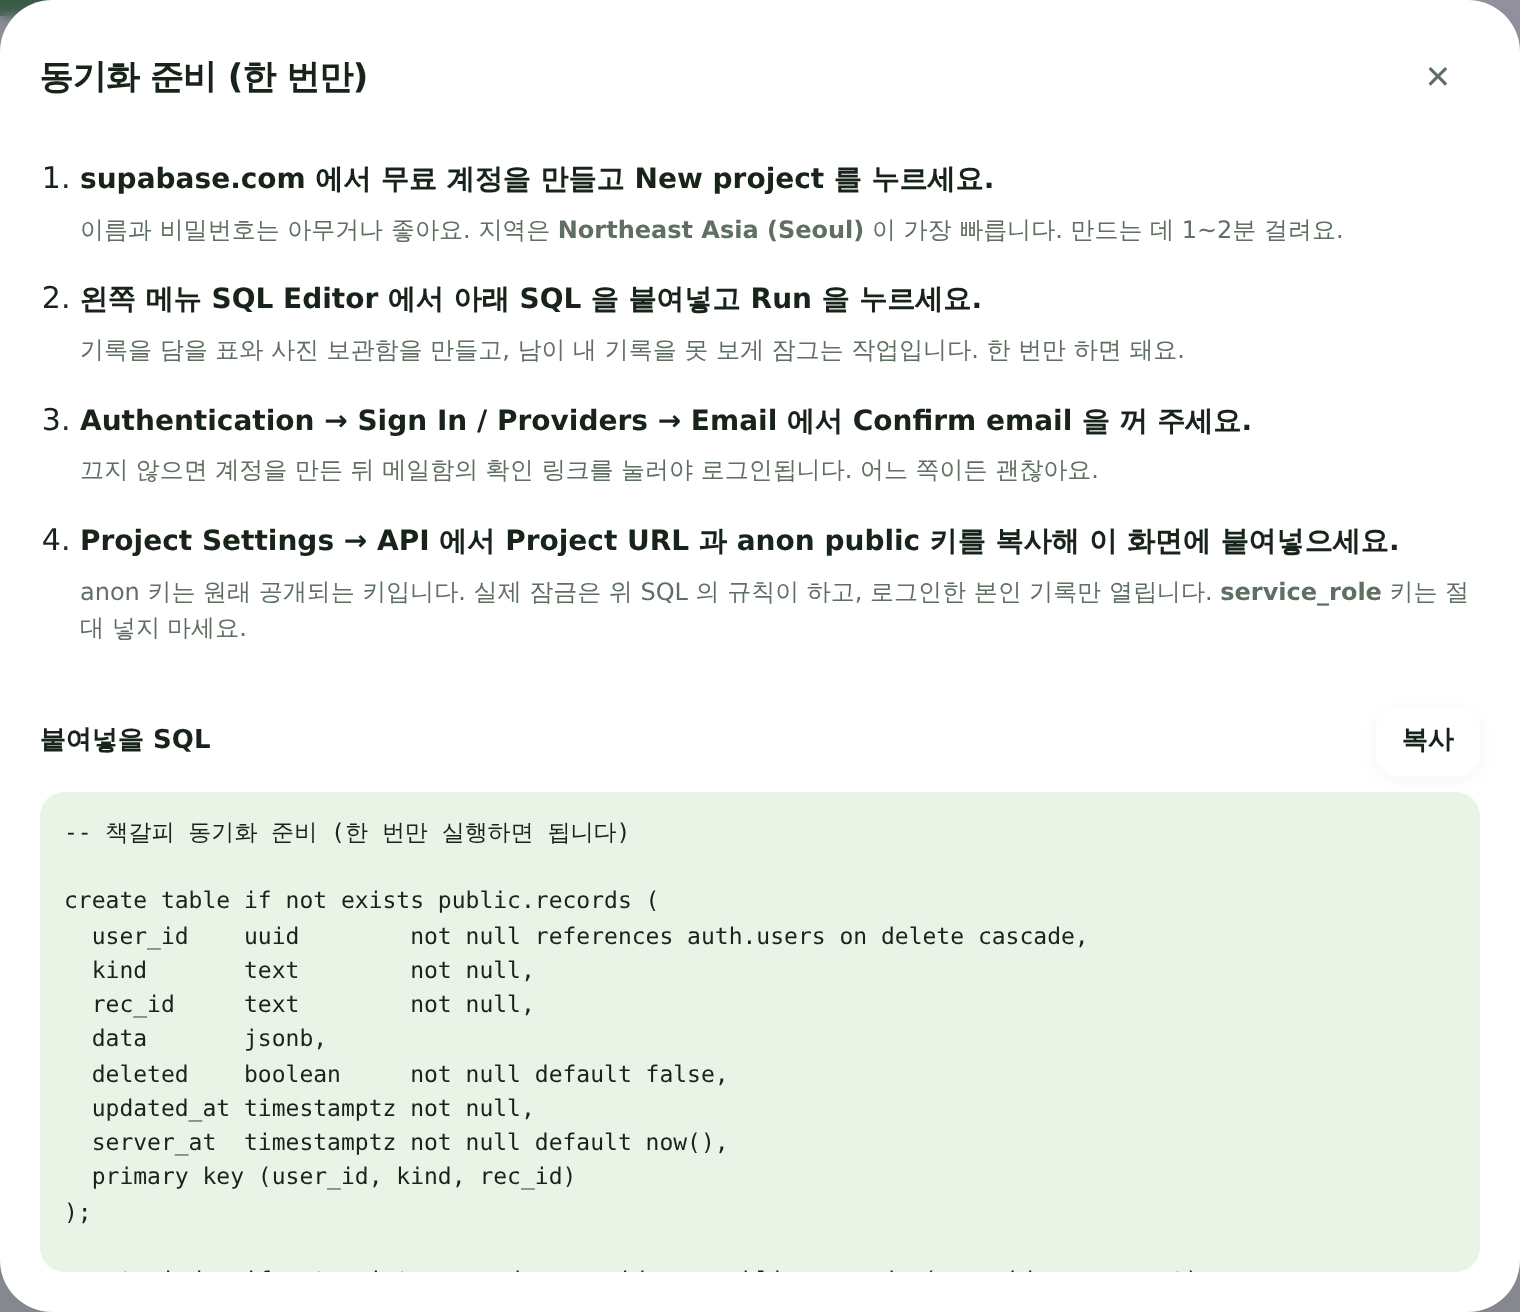
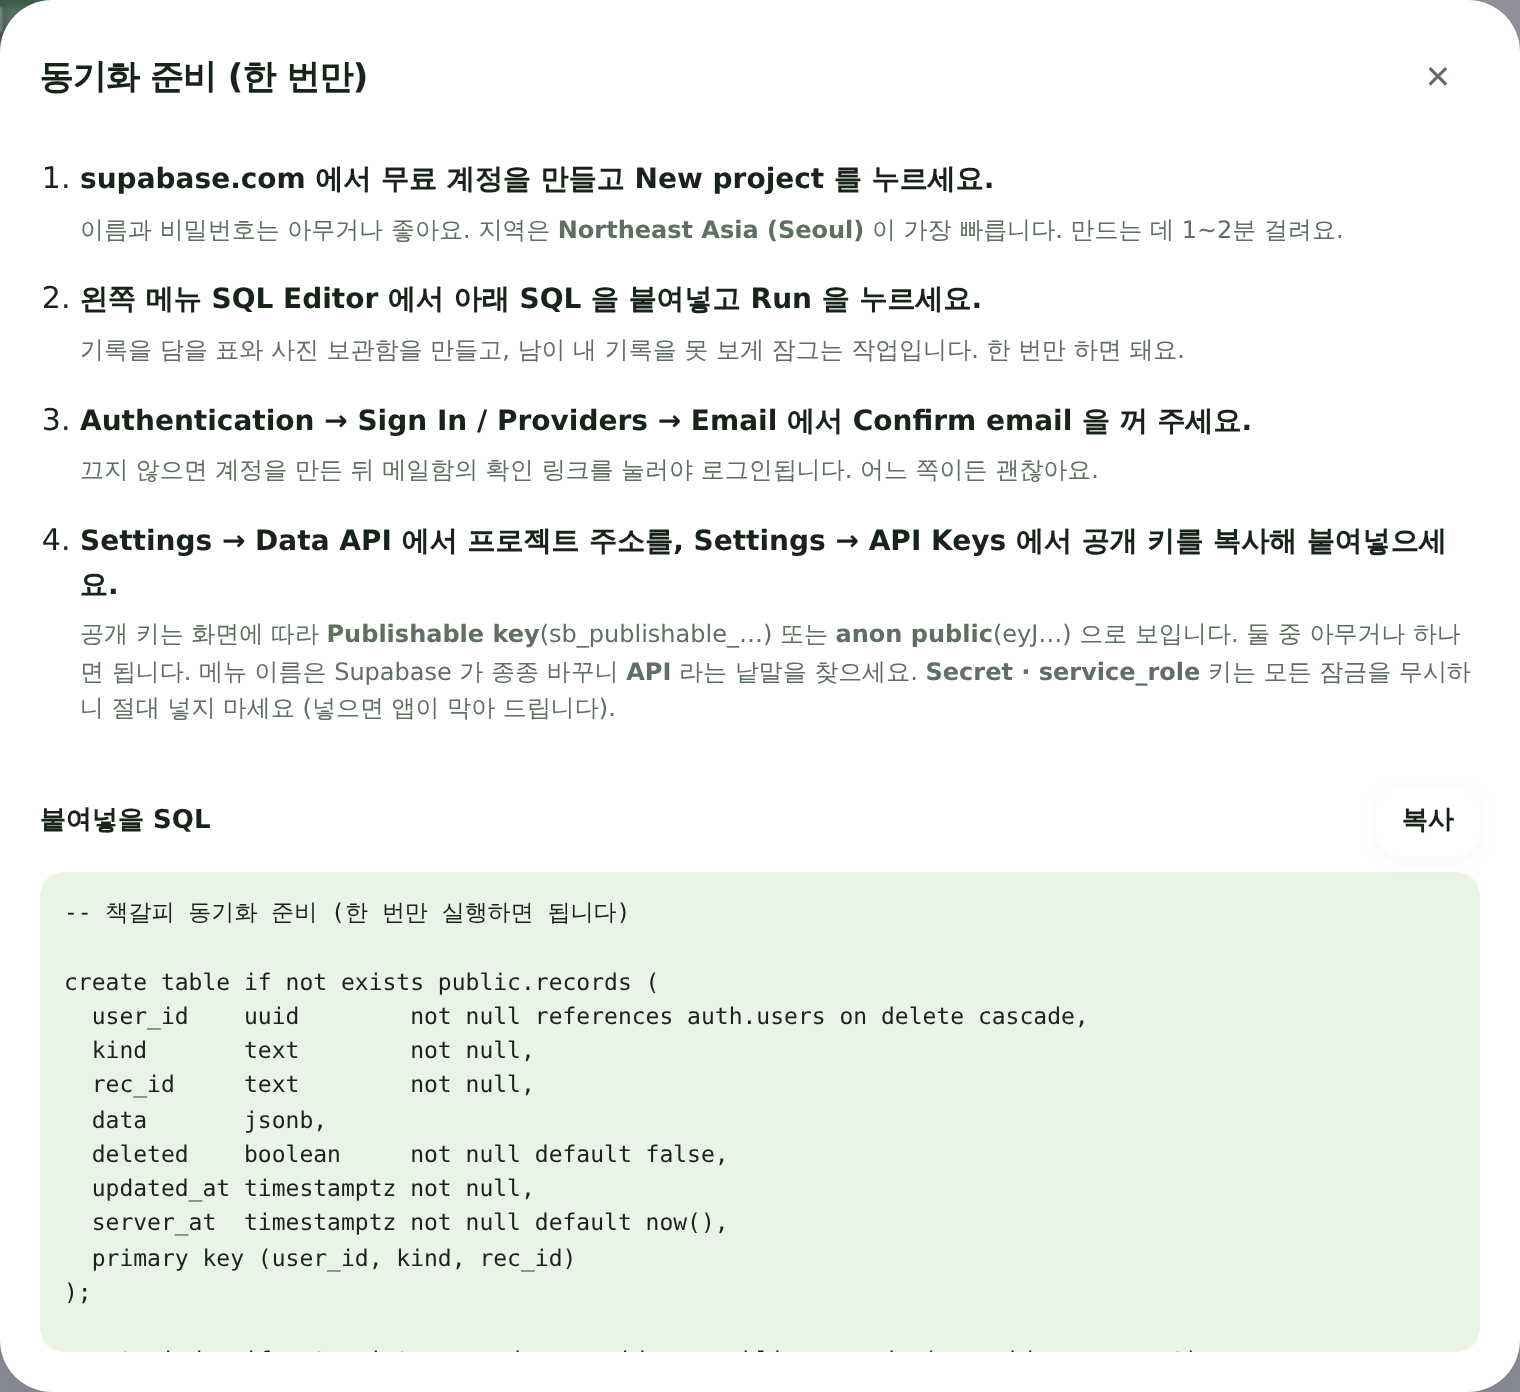
Supabase 키 안내를 새 대시보드에 맞추고, 위험한 키를 막는다
Supabase 가 API 키 체계를 바꾸면서 대시보드 메뉴도 갈렸다.
문서와 앱 안내가 예전 화면("Project Settings → API 에서 anon public")만
가리키고 있어, 지금 화면에서는 그 항목을 찾을 수 없다.

주소는 Settings → Data API, 키는 Settings → API Keys 로 나뉘었고
키도 Publishable(sb_publishable_…) 과 Legacy anon(eyJ…) 두 가지가 보인다.
둘 다 쓸 수 있으므로 양쪽을 모두 안내하고, 메뉴 이름은 또 바뀔 수 있다는
점도 적어 두었다.

- Secret · service_role 키를 넣으면 연결 확인에서 막는다.
  그 키는 SQL 로 건 잠금을 통째로 무시해서, 브라우저에 들어가는 순간
  주소를 아는 누구나 기록을 읽고 지울 수 있다. 예전 방식 키는 JWT 라
  역할이 안에 적혀 있어 열어 보고 판단한다.
- 입력칸 이름을 'anon public 키' 에서 '공개 키 (Publishable 또는 anon)' 로.

supabase.com 이 이 환경의 네트워크 정책에 막혀 있어 대시보드 화면을
직접 확인하지는 못했다. 어느 화면이든 맞도록 두 경우를 모두 담았다.

112개 통과 (기존 106 + 키 안내·차단 6).

Claude-Session: https://claude.ai/code/session_01Cp53XNTgAP4TSJ9zpSBQ1h

diff --git a/js/views/settings.js b/js/views/settings.js
@@ -131,8 +131,10 @@ export default function settingsView() {
      '기록을 담을 표와 사진 보관함을 만들고, 남이 내 기록을 못 보게 잠그는 작업입니다. 한 번만 하면 돼요.'],
     ['<b>Authentication → Sign In / Providers → Email</b> 에서 <b>Confirm email</b> 을 꺼 주세요.',
      '끄지 않으면 계정을 만든 뒤 메일함의 확인 링크를 눌러야 로그인됩니다. 어느 쪽이든 괜찮아요.'],
-    ['<b>Project Settings → API</b> 에서 <b>Project URL</b> 과 <b>anon public</b> 키를 복사해 이 화면에 붙여넣으세요.',
-     'anon 키는 원래 공개되는 키입니다. 실제 잠금은 위 SQL 의 규칙이 하고, 로그인한 본인 기록만 열립니다. <b>service_role</b> 키는 절대 넣지 마세요.'],
+    ['<b>Settings → Data API</b> 에서 <b>프로젝트 주소</b>를, <b>Settings → API Keys</b> 에서 <b>공개 키</b>를 복사해 붙여넣으세요.',
+     '공개 키는 화면에 따라 <b>Publishable key</b>(sb_publishable_…) 또는 <b>anon public</b>(eyJ…) 으로 보입니다. 둘 중 아무거나 하나면 됩니다. '
+     + '메뉴 이름은 Supabase 가 종종 바꾸니 <b>API</b> 라는 낱말을 찾으세요. '
+     + '<b>Secret · service_role</b> 키는 모든 잠금을 무시하니 절대 넣지 마세요 (넣으면 앱이 막아 드립니다).'],
   ];
 
   function openSyncHelp() {
@@ -178,7 +180,7 @@ export default function settingsView() {
         </p>
         <div style="display:flex;flex-direction:column;gap:12px">
           ${fieldHTML('프로젝트 주소', '<input class="input" id="syUrl" placeholder="https://xxxxxxxx.supabase.co" autocomplete="off">')}
-          ${fieldHTML('anon public 키', '<input class="input" id="syKey" placeholder="eyJ... 로 시작하는 긴 문자열" autocomplete="off">')}
+          ${fieldHTML('공개 키 (Publishable 또는 anon)', '<input class="input" id="syKey" placeholder="sb_publishable_... 또는 eyJ... 로 시작하는 키" autocomplete="off">')}
         </div>
         <div class="chips" style="margin-top:14px">
           <button class="btn btn--primary btn--sm" id="syCheck" type="button">연결 확인</button>

diff --git a/js/sync.js b/js/sync.js
@@ -346,6 +346,32 @@ export async function syncNow() {
   return result;
 }
 
+/**
+ * 넣으면 안 되는 키인지 알아본다.
+ * Secret · service_role 키는 모든 잠금을 무시하므로, 브라우저에 들어가면
+ * 주소를 아는 누구나 내 기록을 읽고 지울 수 있다. 실수 한 번에 프로젝트가 열린다.
+ * @returns {string} 문제가 있으면 사람이 읽을 메시지, 없으면 빈 문자열
+ */
+export function keyProblem(key) {
+  const k = String(key || '').trim();
+  if (/^sb_secret_/i.test(k)) {
+    return '비밀 키(sb_secret_…)를 넣으셨습니다. 이 키는 모든 잠금을 무시하니 브라우저에 넣으면 안 됩니다. '
+      + '공개 키(Publishable 또는 anon)를 넣어 주세요.';
+  }
+  // 예전 방식의 키는 JWT 라서 역할이 안에 적혀 있다
+  const m = /^eyJ[\w-]*\.([\w-]+)\./.exec(k);
+  if (m) {
+    try {
+      const body = JSON.parse(atob(m[1].replace(/-/g, '+').replace(/_/g, '/')));
+      if (body.role && body.role !== 'anon') {
+        return `${body.role} 키를 넣으셨습니다. 이 키는 모든 잠금을 무시하니 브라우저에 넣으면 안 됩니다. `
+          + 'anon(public) 키를 넣어 주세요.';
+      }
+    } catch { /* 우리가 못 읽는 형식이면 판단하지 않는다 */ }
+  }
+  return '';
+}
+
 /** 설정을 저장하기 전에 주소와 키가 맞는지만 두들겨 본다 */
 export async function testConnection({ url, anonKey }) {
   const u = trimUrl(url);
@@ -356,6 +382,8 @@ export async function testConnection({ url, anonKey }) {
   if (!local && !/^https:\/\//.test(u)) {
     throw new Error('프로젝트 주소는 https:// 로 시작해야 합니다.');
   }
+  const bad = keyProblem(anonKey);
+  if (bad) throw new Error(bad);
   let res;
   try {
     res = await fetch(`${u}/auth/v1/settings`, { headers: { apikey: anonKey } });

diff --git a/docs/sync-setup.md b/docs/sync-setup.md
@@ -95,18 +95,34 @@ create policy "own photos" on storage.objects
 
 ## 4. 앱에 주소와 키 넣기
 
-**Project Settings → API** 에서 두 가지를 복사합니다.
+Supabase 대시보드는 메뉴 이름과 위치가 종종 바뀝니다.
+**어느 메뉴에 있든 아래 두 가지를 찾으시면 됩니다.**
 
-| 항목 | 예시 | 앱에서 넣을 곳 |
+### ① 프로젝트 주소
+
+`https://<영문숫자>.supabase.co` 형태의 주소입니다.
+왼쪽 아래 **Settings**(톱니바퀴) → **Data API** 에 있습니다. 예전 화면에서는 **API** 라는 이름이었습니다.
+
+### ② 공개 키
+
+**Settings → API Keys** 에 있습니다. 화면에 따라 두 종류 중 하나 또는 둘 다 보입니다.
+
+| 화면에 보이는 이름 | 생김새 | 이 앱에 넣어도 되나 |
 |---|---|---|
-| Project URL | `https://abcdefgh.supabase.co` | 프로젝트 주소 |
-| API Keys → **anon public** | `eyJhbGciOi...` (아주 긴 문자열) | anon public 키 |
+| **Publishable key** | `sb_publishable_…` | ○ 새 방식. 이걸 넣으세요 |
+| **anon** · **public** (Legacy API keys) | `eyJhbGciOi…` (아주 긴 문자열) | ○ 예전 방식. 이것도 그대로 됩니다 |
+| **Secret key** · **service_role** | `sb_secret_…` · `eyJ…` | ✗ **절대 넣지 마세요** |
+
+둘 중 **아무거나 하나면 됩니다.** `Publishable` 만 보이면 그것을, `anon public` 만 보이면 그것을 쓰세요.
 
 앱의 **설정 → 기기 간 동기화** 에 붙여넣고 **연결 확인** 을 누릅니다.
 이어서 이메일과 비밀번호로 **계정 만들기** 를 누르면 끝입니다.
 
-> **service_role 키는 절대 넣지 마세요.** 그 키는 모든 잠금을 무시합니다.
-> `anon public` 키는 원래 공개되는 키이고, 실제 잠금은 2번에서 건 규칙이 합니다.
+> **왜 공개 키는 브라우저에 넣어도 되나요?**
+> 그 키는 "이 프로젝트에 말을 걸겠다"는 표찰일 뿐, 문을 여는 열쇠가 아닙니다.
+> 실제 잠금은 2번에서 건 규칙(Row Level Security)이 하고, 로그인한 본인의 기록만 열립니다.
+> 반면 **Secret · service_role 키는 그 잠금을 통째로 무시합니다.**
+> 실수로 넣으시면 앱이 알아보고 막아 드립니다.
 
 ## 5. 다른 기기에서
 
